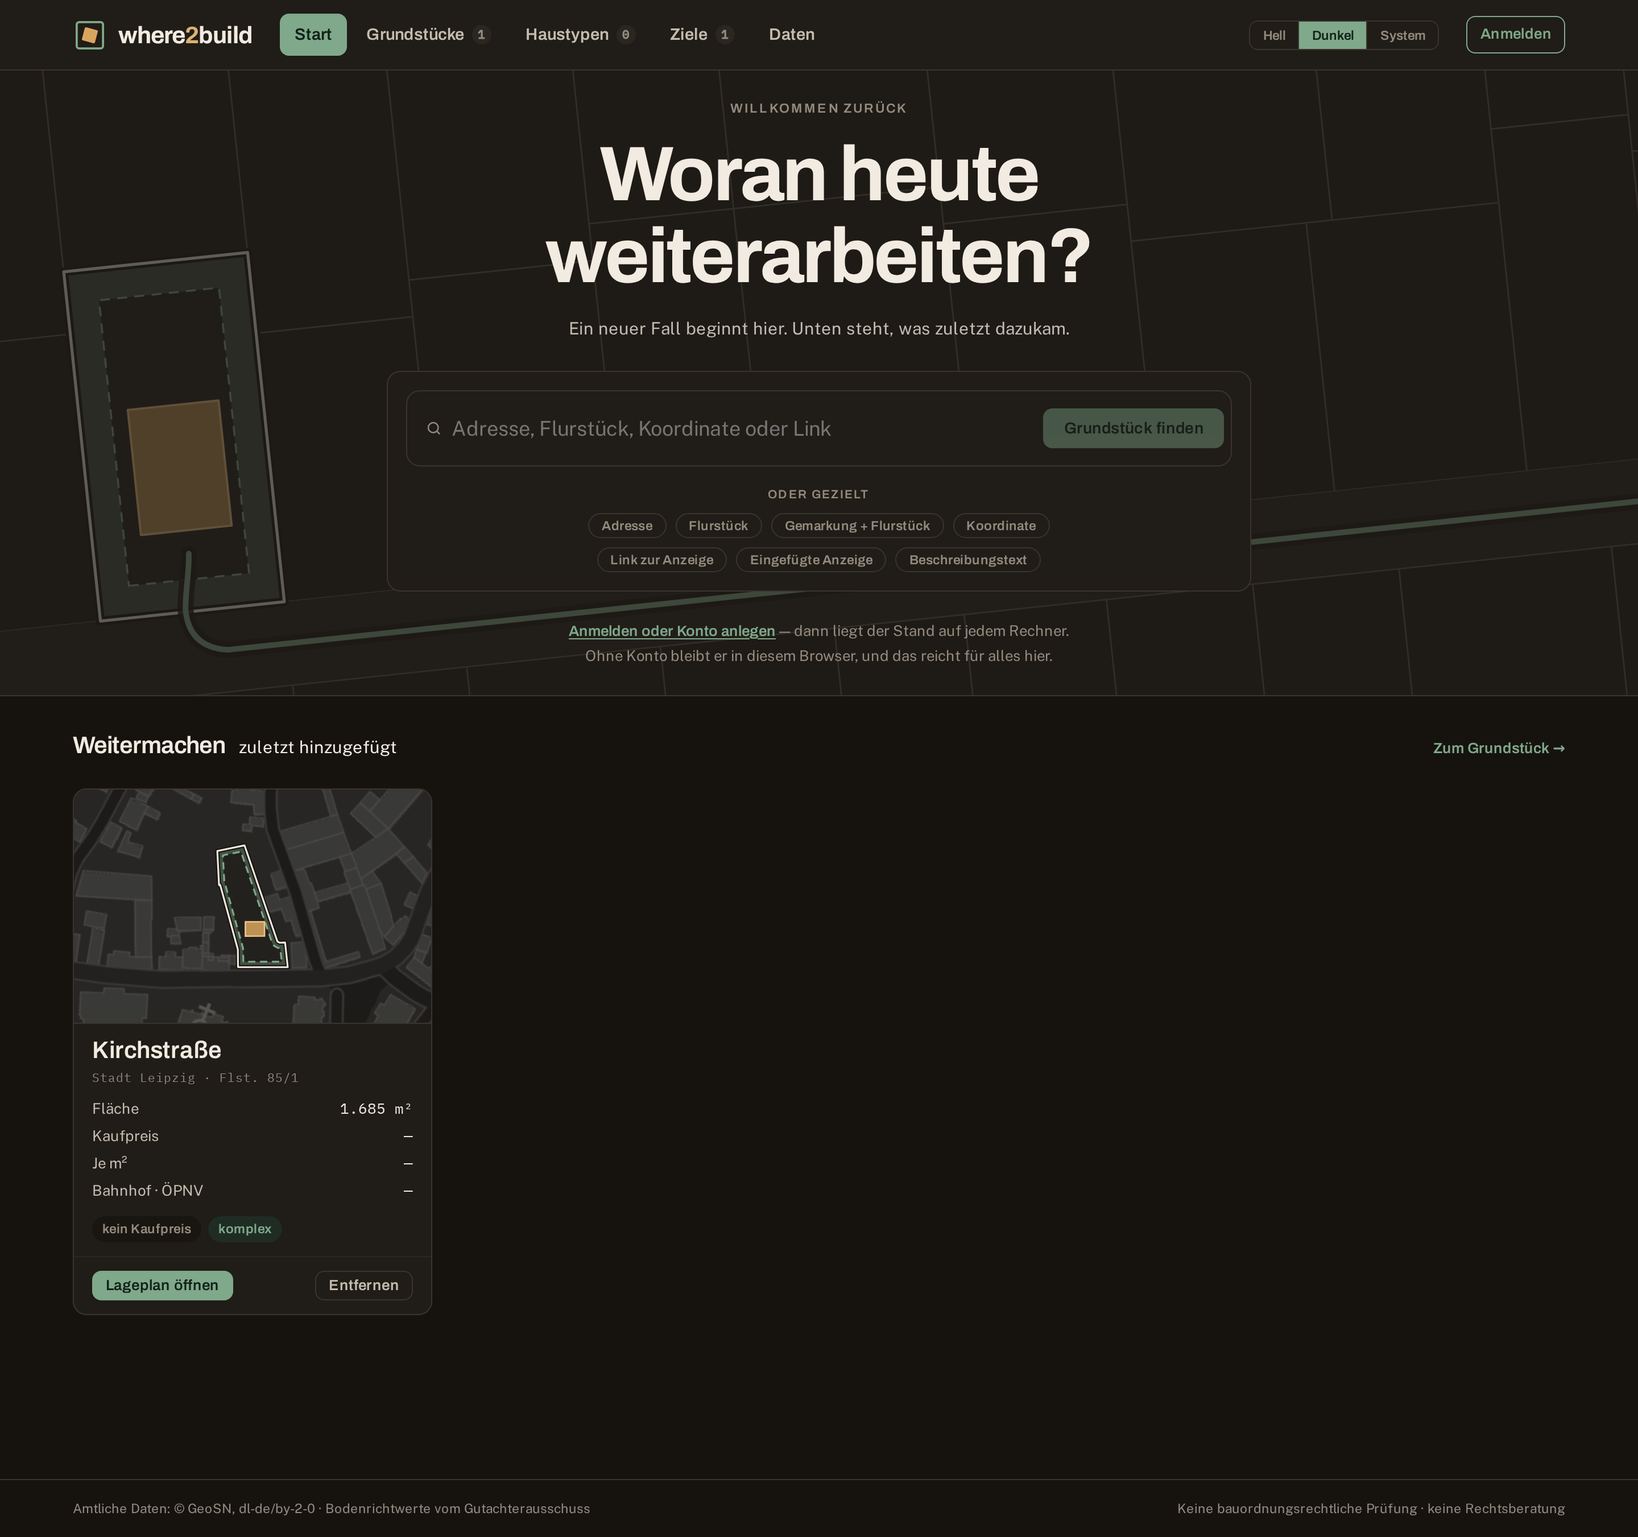
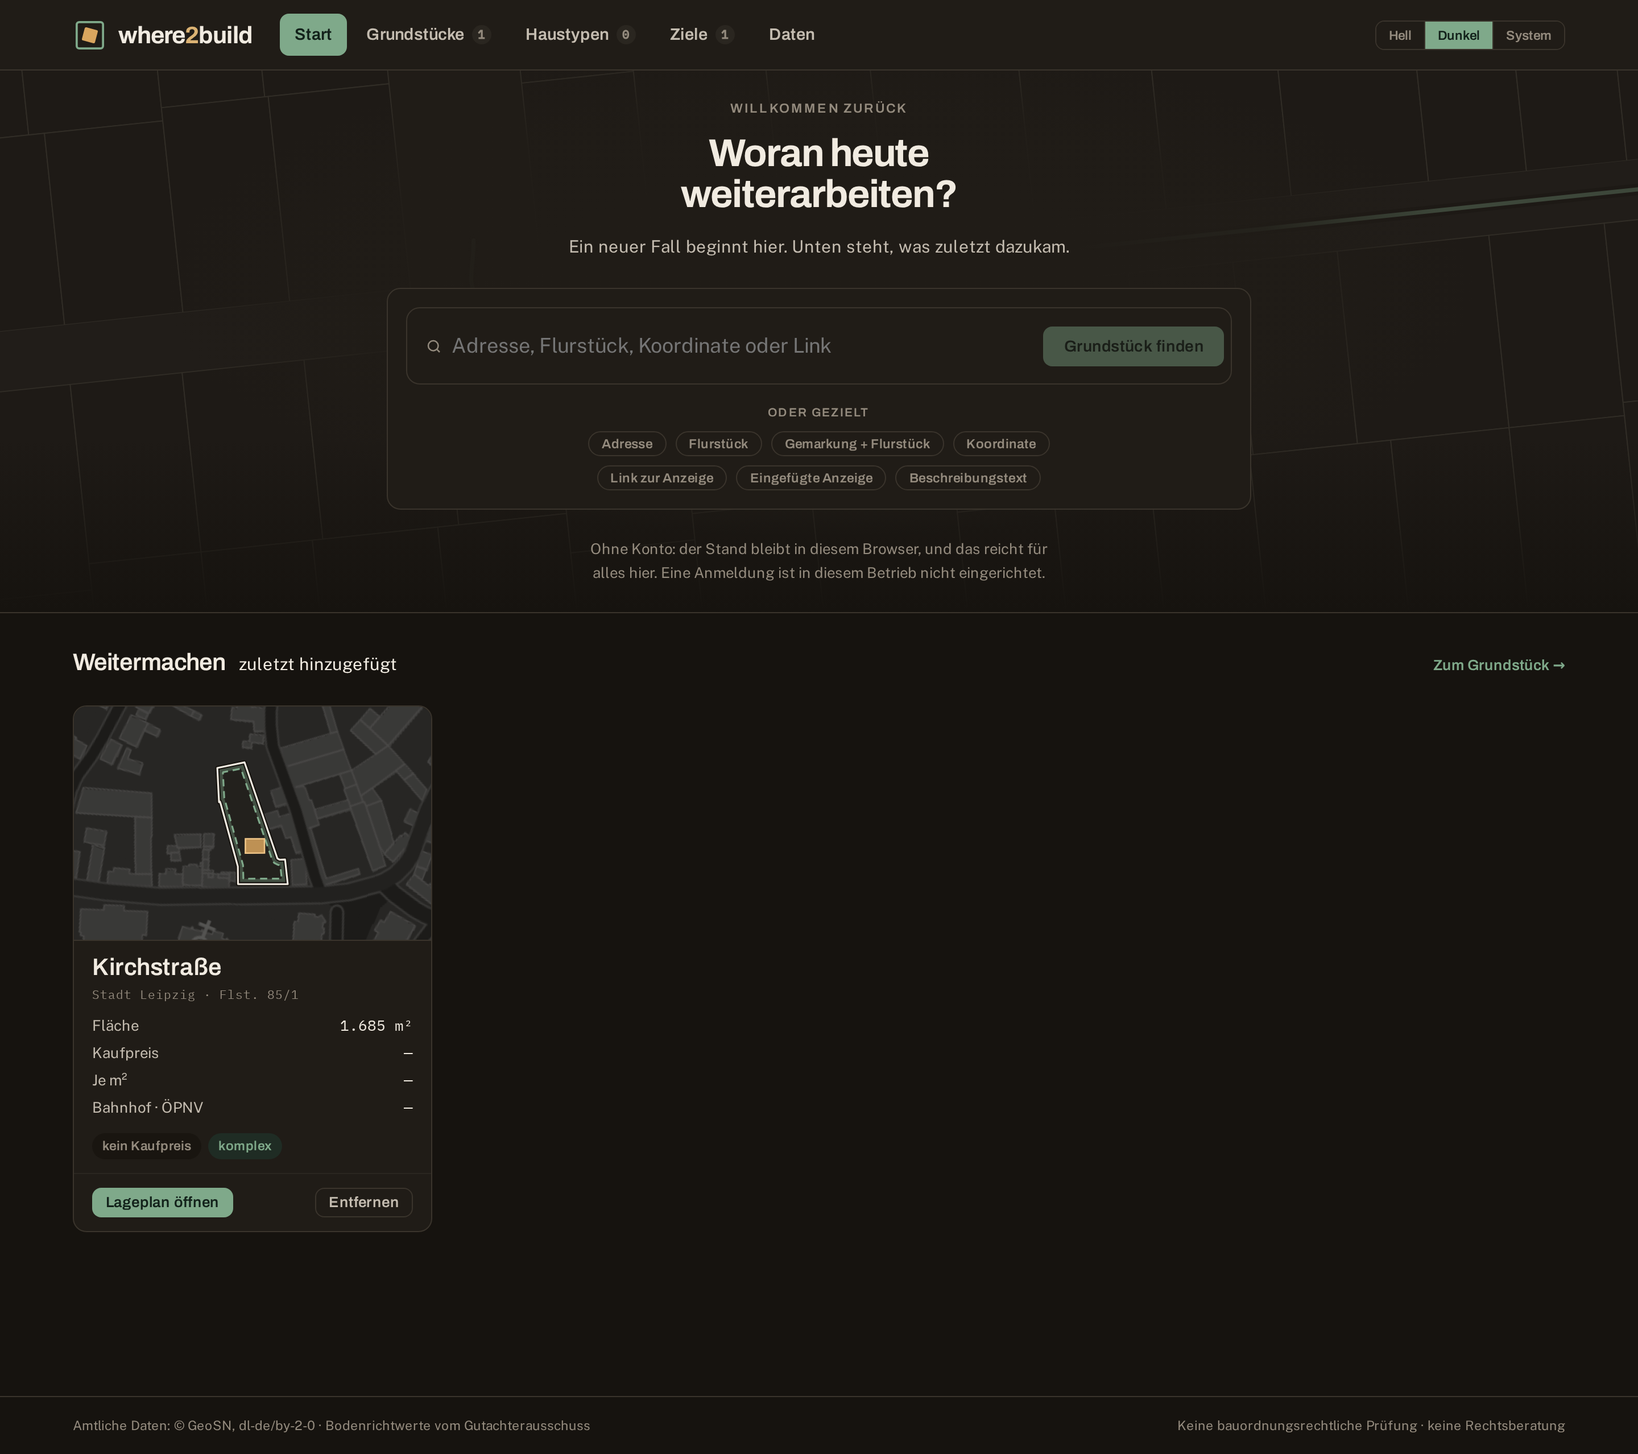
Anchor the reception's plot to the headline, and fix its veil
The plot sat in a drawing centred on the window, 664 px left of the
middle: cut off below 1330 px of width, gone below 940, never on a
phone -- and it hung from the top while the type was centred, so a
taller window moved the headline away from it.

The drawing now hangs off the headline and is sized in its em, so the
plot stands beside the headline at its height and shrinks with it.
Below 700 px it moves into the top right corner, cut off by the upper
edge, with the eyebrow beside it and the type flush left. The plot is
its own layer above the veil.

The veil itself never painted on a desktop: Chromium rejects a radial
size mixing a percentage with a length, and drops the declaration.

The eyebrow and the sentence under the headline are shorter and ask
for the input instead of describing the pipeline.

Claude-Session: https://claude.ai/code/session_01DS9ApWmM8DppBW63fiGMJ8

diff --git a/frontend/src/views/HomeView.vue b/frontend/src/views/HomeView.vue
@@ -2,9 +2,9 @@
   <div class="home">
     <section class="hero" :class="{ 'hero--slim': hasPlots }">
       <!-- The ground: a cadastral fabric carrying no labels at all. It shows
-           what this is about without wanting to be read, which is why it fades
-           out towards the middle, where the field stands. Decorative, so it is
-           hidden from anything that reads the page aloud.
+           what this is about without wanting to be read, which is why a veil
+           covers it behind the type. Decorative, so it is hidden from anything
+           that reads the page aloud.
            The parcels are a rectangular lattice turned by the street's own
            gradient: every edge on a street sits on its kerb, the side edges are
            square to it, and the widths come from a handful of values, so a run
@@ -14,12 +14,16 @@
            fronting the upper street and the row fronting the lower one share.
            That is what makes the two rows meet: both subdivide the same run
            between the same two kerbs, so a parcel can neither overlap the one
-           behind it nor leave a strip of paper between them. The box is 3840
-           wide because that is the widest monitor anyone brings; a window
-           narrower than that is served by `slice`, which crops the sides. -->
-      <div class="hero__art" aria-hidden="true">
-        <svg viewBox="0 0 3840 1200" preserveAspectRatio="xMidYMin slice">
-          <g opacity=".9">
+           behind it nor leave a strip of paper between them.
+           The drawing hangs off the headline, not off the window; the style
+           block says why and where its numbers come from. -->
+
+      <div class="hero__art" aria-hidden="true"></div>
+
+      <div class="hero__inner">
+        <div class="hero__headline">
+          <svg class="hero__fabric" viewBox="-220 -660 4260 2330" aria-hidden="true" focusable="false">
+            <g opacity=".9">
             <g fill="var(--w2b-map-ground)" stroke="var(--w2b-map-neighbour)" stroke-width="1.2" stroke-linejoin="round">
             <polygon points="-181.4,66.4 -32.3,50.7 -63.6,-247.7 -212.8,-232"></polygon>
             <polygon points="-32.3,50.7 79.1,39 55.1,-189.8 -56.3,-178.1"></polygon>
@@ -248,12 +252,6 @@
             <polygon points="3794.3,1002.9 3931.5,988.4 3959.1,1251 3821.9,1265.5"></polygon>
             <polygon points="3931.5,988.4 4007.1,980.5 4034.7,1243.1 3959.1,1251"></polygon>
             </g>
-            <polygon points="1336.9,446.7 1486.1,431 1456.3,147.6 1307.1,163.3" fill="var(--w2b-map-surface)"></polygon>
-            <path d="M1336.9,446.7 L1486.1,431 L1456.3,147.6 L1307.1,163.3 Z M1360,418.1 L1457.5,407.9 L1433.1,176.2 L1335.7,186.4 Z" fill="var(--w2b-map-setback)" fill-rule="evenodd"></path>
-            <polygon points="1336.9,446.7 1486.1,431 1456.3,147.6 1307.1,163.3" fill="none" stroke="var(--w2b-map-halo)" stroke-width="7" stroke-linejoin="round"></polygon>
-            <polygon points="1336.9,446.7 1486.1,431 1456.3,147.6 1307.1,163.3" fill="none" stroke="var(--w2b-map-boundary)" stroke-width="2.4" stroke-linejoin="round"></polygon>
-            <polygon points="1360,418.1 1457.5,407.9 1433.1,176.2 1335.7,186.4" fill="none" stroke="var(--w2b-map-envelope)" stroke-width="1.6" stroke-dasharray="8 6"></polygon>
-            <polygon points="1369.8,376.9 1443.4,369.2 1432.7,267.7 1359.1,275.4" fill="var(--w2b-map-design)" fill-opacity=".85" stroke="var(--w2b-map-design-edge)" stroke-width="1.8" stroke-linejoin="round"></polygon>
 
             <!-- A way out, drawn the way `RouteCards` draws a real one: the
                  mode's own colour over the halo every line here carries. It
@@ -275,22 +273,30 @@
               <path d="M1408.6,392 C1409,408 1405.5,424 1406,438 Q1409,468 1440,470 L3980,202.7"
                     stroke="var(--w2b-primary)" stroke-width="4.6"></path>
             </g>
-          </g>
-        </svg>
-      </div>
+            </g>
+          </svg>
+          <!-- The plot itself, in a layer of its own above the veil: the
+               fabric around it may fade, the one parcel this is about may not. -->
+          <svg class="hero__plot" viewBox="-220 -660 4260 2330" aria-hidden="true" focusable="false">
+            <polygon points="1336.9,446.7 1486.1,431 1456.3,147.6 1307.1,163.3" fill="var(--w2b-map-surface)"></polygon>
+            <path d="M1336.9,446.7 L1486.1,431 L1456.3,147.6 L1307.1,163.3 Z M1360,418.1 L1457.5,407.9 L1433.1,176.2 L1335.7,186.4 Z" fill="var(--w2b-map-setback)" fill-rule="evenodd"></path>
+            <polygon points="1336.9,446.7 1486.1,431 1456.3,147.6 1307.1,163.3" fill="none" stroke="var(--w2b-map-halo)" stroke-width="7" stroke-linejoin="round"></polygon>
+            <polygon points="1336.9,446.7 1486.1,431 1456.3,147.6 1307.1,163.3" fill="none" stroke="var(--w2b-map-boundary)" stroke-width="2.4" stroke-linejoin="round"></polygon>
+            <polygon points="1360,418.1 1457.5,407.9 1433.1,176.2 1335.7,186.4" fill="none" stroke="var(--w2b-map-envelope)" stroke-width="1.6" stroke-dasharray="8 6"></polygon>
+            <polygon points="1369.8,376.9 1443.4,369.2 1432.7,267.7 1359.1,275.4" fill="var(--w2b-map-design)" fill-opacity=".85" stroke="var(--w2b-map-design-edge)" stroke-width="1.8" stroke-linejoin="round"></polygon>
+          </svg>
 
-      <div class="hero__inner">
-        <p class="eyebrow hero__eyebrow">{{ greeting }}</p>
-        <h1 v-if="hasPlots">Woran heute weiterarbeiten?</h1>
-        <h1 v-else>Aus einer Anzeige wird ein <em>geprüftes Grundstück</em>.</h1>
+          <p class="eyebrow hero__eyebrow">{{ greeting }}</p>
+          <h1 v-if="hasPlots">Woran heute weiterarbeiten?</h1>
+          <h1 v-else>Aus einer Anzeige wird ein <em>geprüftes Grundstück</em>.</h1>
+        </div>
 
         <p class="hero__sub" v-if="hasPlots">
           Ein neuer Fall beginnt hier. Unten steht, was zuletzt dazukam.
         </p>
         <p class="hero__sub" v-else>
-          Link einfügen: gesucht wird das Flurstück im Liegenschaftskataster, gemessen wird
-          amtlich, der Preis geht gegen den Bodenrichtwert, und das Haus stellt sich in die
-          Abstandsflächen.
+          Link zur Anzeige, Adresse oder Flurstück eingeben und alles Wichtige zum
+          Grundstück erhalten.
         </p>
 
         <QueryBox class="hero__query panel" :busy="busy" @resolve="startResolve" @read="startRead" />
@@ -425,7 +431,7 @@ export default {
     /** Named where the provider gave a name, and never claiming a return for
      *  someone who has not been here before. */
     greeting() {
-      if (!this.hasPlots) return "Sachsen · Liegenschaftskataster, Bodenrichtwert, Fahrplan";
+      if (!this.hasPlots) return "Grundstück finden, Haus planen";
       const name = state.account.angemeldet ? state.account.name : null;
       return name ? `Willkommen zurück, ${name}` : "Willkommen zurück";
     },
@@ -492,7 +498,7 @@ export default {
    what reaches the window's own edges; the overshoot of a classic scrollbar
    is clipped by `.shell`, which is why that element carries `overflow-x`. */
 .hero{
-  position: relative; overflow: hidden;
+  position: relative; overflow: hidden; isolation: isolate;
   display: flex; align-items: center;
   width: 100vw;
   margin: calc(-1 * var(--w2b-space-5)) calc(50% - 50vw) 0;
@@ -510,38 +516,57 @@ export default {
 /* With a stand, the reception steps aside for the cards below it: the page is
    then about what is already here, not about the invitation. */
 .hero--slim{ min-height: 0; padding-top: var(--w2b-space-5); padding-bottom: var(--w2b-space-5); }
-.hero--slim h1{ font-size: clamp(26px, 3.2vw, 34px); }
 .hero--slim .hero__sub{ font-size: var(--w2b-text-m); }
 .hero--slim .hero__query{ margin-top: var(--w2b-space-5); }
-/* The cards below carry the picture; here the fabric is only texture. */
-.hero--slim .hero__art{ opacity: .34; }
+/* The cards below carry the picture; here the fabric is only texture, at the
+   scale of the full reception rather than of the smaller headline. */
+.hero--slim .hero__fabric{ opacity: .34; font-size: 68px; }
+.hero--slim .hero__plot{ display: none; }
 
-.hero__art{ position: absolute; inset: 0; overflow: hidden; pointer-events: none; }
-/* Fixed box, anchored at the top: the suggestion list makes the reception
-   taller, and a ground that rescales with it reads as slipped. Tall enough
-   that growing never reaches its lower edge, so nothing looks cut off either.
-   With `slice` the scale is `max(width/3840, height/1200)`, so up to 4160 px
-   of window the height is what sets it: a parcel is the same size on a 1366
-   laptop and on a 4K monitor, and a wider window shows more of the fabric
-   rather than a magnified piece of it. The plot keeps its distance from the
-   middle for the same reason -- the box is centred, so a fixed offset in the
-   drawing is a fixed offset on screen. */
-.hero__art svg{ display: block; width: 100%; height: max(100%, 1300px); }
-/* Towards the middle the fabric gives way to paper: a drawing behind a field
-   is a background, and a background must not be read. What has to stay
-   readable is the 860 px column of type, and what has to stay legible is the
-   plot to the left of it -- both are fixed sizes, so the quiet core is one
-   too. Left as a bare 34% it grew with the window until it swallowed the plot;
-   470 px is 34% of the width this was drawn at. */
-.hero__art::after{
-  content: ""; position: absolute; inset: 0;
+/* The veil: paper over the fabric behind the type. The size is `min()` of two
+   lengths on purpose -- Chromium drops a radial size that mixes a percentage
+   with a length (`min(34%, 470px)`, `calc(30% + 10px)`), and with it the whole
+   declaration, which left the headline standing on bare fabric. `vw` is the
+   reception's own width, since it bleeds to both edges. The core sits a
+   little above the middle because the headline and the sentence do. */
+.hero__art{
+  position: absolute; inset: 0; z-index: -1; pointer-events: none;
   background:
-    radial-gradient(min(34%, 470px) 42% at 50% 50%,
+    radial-gradient(min(40vw, 580px) 46% at 50% 40%,
       var(--w2b-surface) 0 42%,
       color-mix(in srgb, var(--w2b-surface) 84%, transparent) 72%,
       transparent 100%),
     linear-gradient(180deg, transparent 68%, var(--w2b-paper));
 }
+
+/* The drawing is anchored to the headline rather than to the window. Anchored
+   to the middle of the window, the plot sat a fixed 664 px left of it: cut off
+   below 1330 px of width, gone below 940, and -- the drawing hung from the top
+   while the type was centred -- further below the headline the taller the
+   window got. Here it stands beside the headline at its height, and both
+   are sized in the headline's own `em`, so the plot shrinks exactly as the
+   type does and the room beside a 20ch headline always holds it.
+   The numbers, in drawing units at 3.4em per 299 units (the plot's height):
+     box      4260 x 2330 units from (-220, -660), the fabric's full extent
+              = 48.44em x 26.49em -- wide enough to reach the right edge of a
+              window up to about 3100 px
+     plot     centre (1396.6, 297), half width 89.5
+              = 18.383em from the box's left edge, 10.882em from its top,
+                half width 1.018em
+     gap      .65em between the plot and the headline's box.
+   Behind the veil sits the fabric, above it the plot: both in the reception's
+   stacking context, which `isolation` on `.hero` makes. */
+.hero__headline{ position: relative; margin-bottom: var(--w2b-space-4); font-size: clamp(34px, 4.8vw, 68px); }
+.hero--slim .hero__headline{ font-size: clamp(26px, 3.2vw, 34px); }
+.hero__fabric, .hero__plot{
+  position: absolute; pointer-events: none; overflow: visible;
+  width: 48.44em; height: 26.49em;
+  left: calc(-.65em - 1.018em - 18.383em);
+  top: calc(50% - 10.882em);
+}
+.hero__fabric{ z-index: -2; }
+.hero__plot{ z-index: -1; }
+
 .hero__inner{
   position: relative; display: flex; flex-direction: column; align-items: center;
   text-align: center; width: 100%; max-width: 860px; margin: 0 auto;
@@ -549,7 +574,7 @@ export default {
 .hero__eyebrow{ margin-bottom: var(--w2b-space-3); }
 /* Bigger than the page's own h1: this one is the only thing above the field,
    and at the body scale it read as a section heading rather than as a claim. */
-.hero h1{ margin-bottom: var(--w2b-space-4); max-width: 20ch; font-size: clamp(34px, 4.8vw, 68px); line-height: 1.06; }
+.hero h1{ max-width: 20ch; font-size: 1em; line-height: 1.06; }
 .hero h1 em{ font-style: normal; color: var(--w2b-primary); }
 .hero__sub{ color: var(--w2b-graphite); font-size: var(--w2b-text-l); max-width: 56ch; text-wrap: balance; }
 .hero__query{ width: 100%; max-width: 760px; margin-top: var(--w2b-space-6); padding: var(--w2b-space-4); text-align: left; }
@@ -584,32 +609,41 @@ export default {
 }
 .home__storage a{ color: var(--w2b-primary); font-weight: 600; }
 
+/* Below 700 px there is no room beside the headline, so the plot moves into
+   the top right corner and the eyebrow runs beside it. The type goes flush
+   left, which a phone reads better than a centred block, and the reception
+   starts at the top rather than in the middle of a box nobody sees whole.
+   The plot is cut off by the upper edge on purpose: it reads as a piece of a
+   map, and costs less height than a whole one. At 44px to the em the plot is
+   drawn at .5 px per unit, its top edge 38 px above the reception, its right
+   edge 22 px inside it; the way out reaches the street 123 px down, which is
+   where the headline may start (48 px padding + 79 px eyebrow + 12 px gap).
+   The veil opens that corner and covers the rest, so the fabric no longer has
+   to be faded to keep it out of the type. */
 @media (max-width: 700px){
-  /* At phone widths the fixed box would crop the fabric to a few huge
-     parcels; a lower one keeps it readable as what it is. */
-  .hero__art svg{ height: max(100%, 820px); }
-  /* On a phone the text fills the reception in both directions: the headline
-     and the sentence take nearly the whole width, and the field, the three
-     lines and the account note take the whole height. A radial core cannot
-     rescue that -- widened enough to clear the text it wipes the drawing out,
-     and anywhere it fades the fabric runs straight through a line of type,
-     which is where a backdrop stops being one.
-     So the drawing itself steps back here, and the core only has to soften the
-     middle. The opacity goes on the svg and not on `.hero__art`, because the
-     veil below is that element's own pseudo-element and would fade with it. */
-  .hero__art svg{ opacity: .42; }
-  .hero__art::after{
-    background:
-      radial-gradient(92% 56% at 50% 48%,
-        var(--w2b-surface) 0 46%,
-        color-mix(in srgb, var(--w2b-surface) 82%, transparent) 78%,
-        transparent 100%),
-      linear-gradient(180deg, transparent 76%, var(--w2b-paper));
+  .hero{ min-height: 0; align-items: flex-start; }
+  .hero:not(.hero--slim){ padding-top: var(--w2b-space-7); }
+  .hero__inner{ position: static; align-items: flex-start; text-align: left; }
+  .hero__headline{ position: static; }
+  .hero__fabric, .hero__plot{
+    font-size: 44px;
+    left: calc(100% - .5em - 1.018em - 18.383em);
+    top: -10.05em;
   }
+  .hero__fabric{ opacity: .85; }
+  .hero:not(.hero--slim) .hero__eyebrow{ max-width: 60%; min-height: 79px; text-wrap: balance; }
+  .hero__art{
+    background: radial-gradient(250px 190px at calc(100% - 55px) 0,
+      transparent 0 50%,
+      color-mix(in srgb, var(--w2b-surface) 80%, transparent) 78%,
+      var(--w2b-surface) 100%);
+  }
+  .hero--slim .hero__fabric{ font-size: 44px; opacity: .34; }
+  .trust{ justify-content: flex-start; }
 }
 
 @media (max-width: 560px){
-  .hero{ padding: var(--w2b-space-7) var(--w2b-space-4); min-height: 0; }
+  .hero{ padding: var(--w2b-space-7) var(--w2b-space-4); }
   .hero__sub{ font-size: var(--w2b-text-m); }
 }
 </style>

diff --git a/docs/claude/frontend.md b/docs/claude/frontend.md
@@ -176,18 +176,24 @@ that collapsed at 390 px. None of them threw.
   finished feature as missing, which is worse than saying nothing. It reads
   `state.sync.active` instead of asserting anything.
 
-- **On a phone a radial veil cannot rescue a backdrop, because the text fills
-  the box in both directions.** The reception's quiet core is a
-  `radial-gradient` at 34% of the width, which works on a desktop where the
-  field sits in the middle of a wide drawing. At 390 px the headline and the
-  sentence take nearly the whole width and the field, the three lines and the
-  account note take the whole height: widened enough to clear the type it
-  wipes the drawing out entirely, and anywhere it fades the fabric runs
-  straight through a line of text — the route crossed one, which is where a
-  backdrop stops being one. So the *drawing* steps back there
-  (`.hero__art svg{ opacity: .42 }`) and the core only softens the middle.
-  The opacity goes on the svg, never on `.hero__art`: the veil is that
-  element's own `::after` and would fade with it.
+- **A backdrop anchored to the window loses whatever it anchors off-centre.**
+  The reception's plot was part of a drawing centred on the window, 664 px
+  left of the middle: cut off below 1330 px of width, gone below 940, never
+  seen on a phone. And the drawing hung from the top while the type was
+  centred vertically, so a taller window pushed the headline away from it.
+  The drawing now hangs off `.hero__headline` and is sized in its `em`, so it
+  shrinks with the type and the room beside a 20ch headline always holds it;
+  below 700 px it moves into the top right corner, cut off by the upper edge.
+  The plot is a second svg above the veil, so the fabric can fade around it
+  without the one parcel that matters fading too.
+
+- **Chromium drops a `radial-gradient` whose size mixes a percentage with a
+  length** -- `min(34%, 470px)`, `calc(30% + 10px)` -- and with it the whole
+  `background` declaration. Nothing in the console. The reception's veil was
+  written that way and never painted on a desktop, which is why the fabric ran
+  straight through the headline. `min(40vw, 580px)` is accepted; test a
+  gradient with `el.style.backgroundImage = …` and read it back, an empty
+  string means it was rejected.
 
 - **`handoff` and `handover` are one letter apart and different things.**
   `lib/handoff.js` is what the start page leaves behind for the wizard — an
